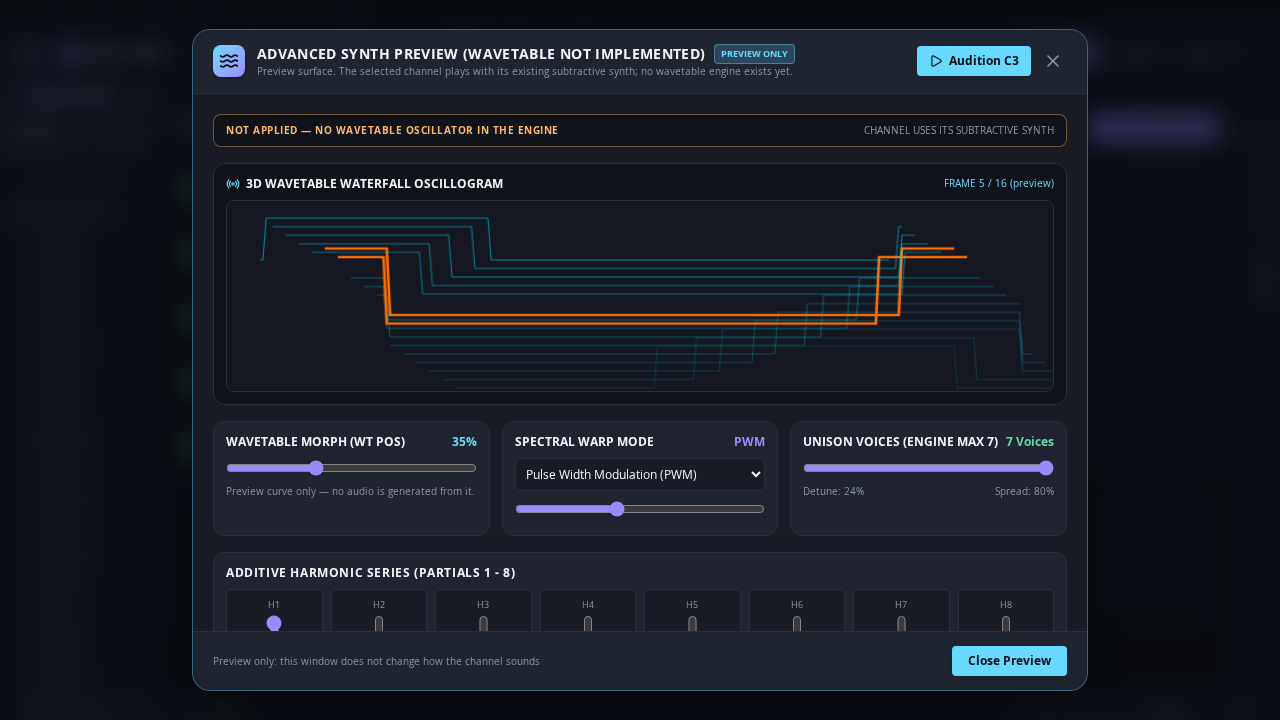
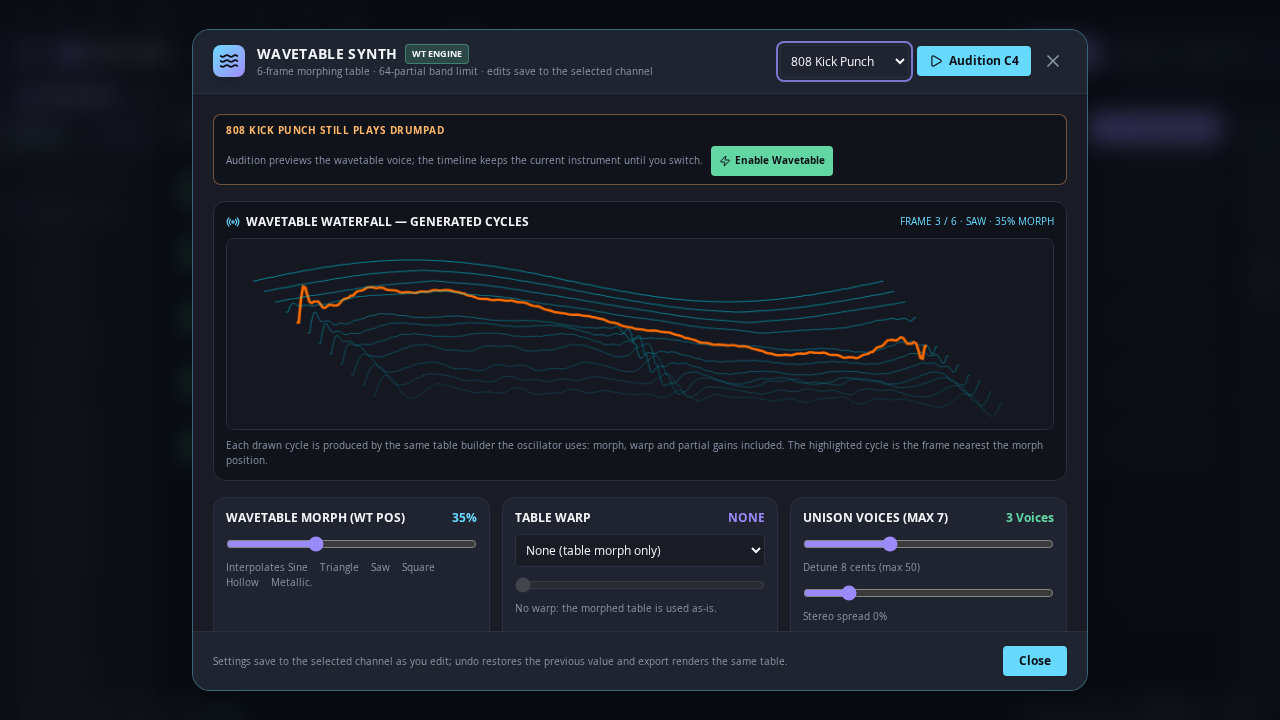
fix(ui): keep the wavetable badge legible in both themes
The WT ENGINE badge used the success colour as text on a 20% success tint,
which measured 3.73:1 at 9px in the light theme. It now uses the standard text
colour, so all 53 visible text nodes in the modal clear WCAG AA in both themes.

The UI-03D theme spec follows the shipped controls (Audition C4, the footer
Close button and the audition status line), and the Node offline harness gains
a wavetable export check: the registered voice must be audible and its PCM must
change with morph/warp through renderTimelineOffline.

diff --git a/browser-tests/wavetableTheme.spec.ts b/browser-tests/wavetableTheme.spec.ts
@@ -269,7 +269,7 @@ test.describe('UI-03D Wavetable preview theme', () => {
       if (mode === 'light') await switchThemeViaSettings(page, 'light');
       const dialog = await openWavetable(page);
 
-      const buttons = ['Audition C3', 'Close Preview'] as const;
+      const buttons = ['Audition C4', 'Close'] as const;
       for (const name of buttons) {
         const locator = dialog.locator(`button:has-text("${name}")`);
         await expect(locator).toHaveCount(1);
@@ -323,7 +323,7 @@ test.describe('UI-03D Wavetable preview theme', () => {
       const dialog = await openWavetable(page);
 
       // The toast is transient (auto-dismiss after 2 s), so measure it right after it appears.
-      await dialog.locator('button:has-text("Audition C3")').click();
+      await dialog.locator('button:has-text("Audition C4")').click();
       const toast = dialog.locator('div.shadow-md:has(button)');
       await expect(toast).toBeVisible();
       const probeId = `ui03d-${mode}-toast`;
@@ -331,7 +331,7 @@ test.describe('UI-03D Wavetable preview theme', () => {
       const scope = `[data-ui03d-probe="${probeId}"]`;
 
       const entries = await measureDialogText(page, scope);
-      const message = entries.find((t) => t.text.includes('Previewing the channel synth'));
+      const message = entries.find((t) => t.text.includes('Auditioning'));
       const dismiss = entries.find((t) => t.text === '✕');
       expect(message, 'toast message measured').toBeDefined();
       expect(dismiss, 'toast dismiss glyph measured').toBeDefined();

diff --git a/src/components/WavetableSynthModal.tsx b/src/components/WavetableSynthModal.tsx
@@ -283,7 +283,7 @@ export const WavetableSynthModal: React.FC<WavetableSynthModalProps> = ({
                 >
                   WAVETABLE SYNTH
                 </h2>
-                <span className="px-1.5 py-0.5 rounded text-[9px] font-mono font-bold bg-[var(--apex-success)]/20 text-[var(--apex-success)] border border-[var(--apex-success)]/40">
+                <span className="px-1.5 py-0.5 rounded text-[9px] font-mono font-bold bg-[var(--apex-success)]/20 text-[var(--apex-text)] border border-[var(--apex-success)]/40">
                   WT ENGINE
                 </span>
               </div>
